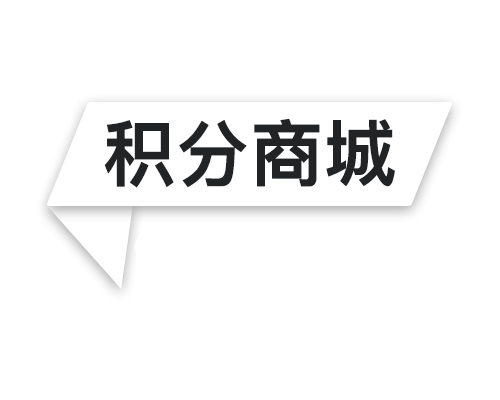
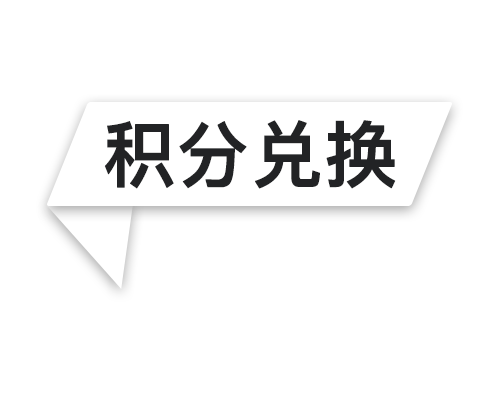
[Add] Credits exchange page init

Changed region(s): [[0.33, 0.3, 0.81, 0.48], [0.21, 0.3, 0.33, 0.45], [0.24, 0.45, 0.27, 0.48]]

diff --git a/src/js/Utilities/RequestAdmin.js b/src/js/Utilities/RequestAdmin.js
@@ -18,7 +18,7 @@ export const getActivityPush = async (content) => {
     return Promise.reject(new Error("请求参数不能为空"))
   }
 
-  const res = await Network.fetchGet(reqUrl, { token: UserStorages.getToken() });
+  const res = await Network.fetchGet(reqUrl, {token: UserStorages.getToken()});
   if (res.status === 200) {
     return res.text();
   } else {
@@ -44,7 +44,7 @@ export const deleteUser = async (id) => {
     return Promise.reject(new Error("请求参数不能为空"))
   }
 
-  const res = await Network.fetchDel(reqUrl, { token: UserStorages.getToken() });
+  const res = await Network.fetchDel(reqUrl, {token: UserStorages.getToken()});
   if (res.status === 200) {
     return res.text();
   } else {
@@ -69,7 +69,7 @@ export const postCouponCreate = async (data) => {
   if (data.name === '' || data.name === undefined) {
     return Promise.reject(new Error("请求参数不能为空"))
   }
-  const res = Network.fetchPost(reqUrl,{ token: UserStorages.getToken() }, data);
+  const res = Network.fetchPost(reqUrl, {token: UserStorages.getToken()}, data);
   if (res.status === 200) {
     return res.json();
   } else {
@@ -100,7 +100,7 @@ export const postCouponCreate = async (data) => {
  *   score: 0
  * }
  * */
-export const postUpdateUserAdmin = async (data= {
+export const postUpdateUserAdmin = async (data = {
   detail: "",
   email: "",
   gender: "",
@@ -118,10 +118,36 @@ export const postUpdateUserAdmin = async (data= {
     return Promise.reject(new Error("请求参数不能为空"))
   }
 
-  const res = await Network.fetchPost(reqUrl, { token: UserStorages.getToken() }, data);
+  const res = await Network.fetchPost(reqUrl, {token: UserStorages.getToken()}, data);
 
   if (res.status === 200) {
     return res.json();
+  } else {
+    res.text()
+      .then(text => {
+        if (text !== undefined) {
+          text = text.toString()
+          return Promise.reject(new Error(text));
+        }
+      })
+  }
+}
+
+/**
+ * @function deleteCoupon
+ * @description 删除优惠券，DELETE请求
+ * @param {string} couponId 优惠券ID
+ * */
+export const deleteCoupon = async (couponId) => {
+  const reqUrl = `${store.getters.getApiServer}/coupon/delete?couponId=${couponId}`
+
+  if (couponId === '' || couponId === undefined) {
+    return Promise.reject(new Error("请求参数不能为空"))
+  }
+
+  const res = await Network.fetchDel(reqUrl, {token: UserStorages.getToken()});
+  if (res.status === 200) {
+    return res.text();
   } else {
     res.text()
       .then(text => {

diff --git a/src/views/credits/Bill.vue b/src/views/credits/Bill.vue
@@ -100,11 +100,19 @@
       <div class="history-bills col-span-1">
         <h1 class="text-center text-2xl my-5">历史消费账单</h1>
         <div>
-          <el-table :data="pageData.myHistoryBills" stripe style="width: 100%" max-height="360" empty-text="无账单数据">
+          <el-table
+              :data="pageData.myHistoryBills"
+              show-summary
+              stripe
+              style="width: 100%"
+              max-height="320"
+              sum-text="合计金额(¥)"
+              empty-text="无账单数据"
+          >
+            <el-table-column prop="description" label="账单描述" fixed="left" width="180"/>
             <el-table-column prop="createDate" label="创建日期" width="180"/>
-            <el-table-column prop="description" label="账单描述" width="180"/>
-            <el-table-column prop="discountAmount" label="折扣"/>
-            <el-table-column prop="totalAmount" label="实付金额"/>
+            <el-table-column prop="discountAmount" sortable label="用券折扣(¥)"/>
+            <el-table-column prop="totalAmount" sortable label="实付金额(¥)"/>
           </el-table>
         </div>
       </div>
@@ -157,7 +165,7 @@ let pageData = reactive({
 })
 
 const useCoupon = () => {
-  pageData.useCoupon = true
+  pageData.useCoupon = pageData.selectedCoupon !== '';
   calcNewCost()
 }
 
@@ -182,8 +190,8 @@ const calcNewCost = () => {
   pageData.estimatedCost = parseFloat(pageData.estimatedCost)
 
   let discountAmount =
-      pageData.userInfo.currentCoupons.find(item => item.couponId === pageData.selectedCoupon)
-          ? pageData.userInfo.currentCoupons.find(item => item.couponId === pageData.selectedCoupon).discountAmount
+      pageData.userInfo.currentCoupons.find(item => item.id === pageData.selectedCoupon)
+          ? pageData.userInfo.currentCoupons.find(item => item.id === pageData.selectedCoupon).discountAmount
           : 0
 
   if (pageData.useCredits) {
@@ -256,7 +264,10 @@ watch(() => pageData.useCredits, () => {
 })
 
 watch(() => pageData.selectedCoupon, (newVal) => {
-  console.log(newVal)
+  if (newVal !== '') {
+    pageData.billForm.couponId = newVal
+  }
+  calcNewCost()
 })
 
 watch(() => store.state.userInfo, (newVal) => {

diff --git a/src/js/Utilities/RequestFiles.js b/src/js/Utilities/RequestFiles.js
@@ -6,29 +6,29 @@ import Network from "@/js/basic/Network"
 import store from "@/js/store"
 import UserStorages from "@/js/Utilities/UserStorages"
 
-/**
- * @function postImage
- * @description 上传图片
- * @param {FormData} img 图片FormData
- * */
-export const postImage = async (img) => {
-  const reqUrl = `${store.getters.getApiServer}/file/image`
-
-  if (img === null || img === undefined) {
-    return Promise.reject('图片不能为空')
-  }
-
-  const res = await Network.fetchPostFile(reqUrl, { token: UserStorages.getToken() }, img);
-
-  if (res.status === 200) {
-    return res.text()
-  } else {
-    res.text()
-      .then(text => {
-        if (text !== undefined) {
-          text = text.toString()
-          return Promise.reject(new Error(text));
-        }
-      })
-  }
-}
+// /**
+//  * @function postImage
+//  * @description 上传图片
+//  * @param {FormData} img 图片FormData
+//  * */
+// export const postImage = async (img) => {
+//   const reqUrl = `${store.getters.getApiServer}/file/image`
+//
+//   if (img === null || img === undefined) {
+//     return Promise.reject('图片不能为空')
+//   }
+//
+//   const res = await Network.fetchPostFile(reqUrl, { token: UserStorages.getToken() }, img);
+//
+//   if (res.status === 200) {
+//     return res.text()
+//   } else {
+//     res.text()
+//       .then(text => {
+//         if (text !== undefined) {
+//           text = text.toString()
+//           return Promise.reject(new Error(text));
+//         }
+//       })
+//   }
+// }

diff --git a/src/views/admin/coupon.vue b/src/views/admin/coupon.vue
@@ -8,7 +8,7 @@
           <el-input
               v-model="pageData.newCoupon.name"
               :minlength="1"
-              :maxlength="8"
+              :maxlength="50"
               show-word-limit
               placeholder="优惠券名称不宜过长"
           ></el-input>
@@ -17,7 +17,7 @@
           <el-input
               v-model="pageData.newCoupon.description"
               :minlength="1"
-              :maxlength="20"
+              :maxlength="100"
               show-word-limit
               placeholder="优惠券描述，如满100减10"
           ></el-input>
@@ -201,7 +201,16 @@ const onCouponSubmit = () => {
 
 const onCouponDelete = () => {
   if (delCouponValidation()) {
-    console.log('delete coupon')
+    AdminApi.deleteCoupon(pageData.deleteCouponId)
+        .then(res => {
+          Notification.Notify(res, {type: 'success', title: '删除优惠券成功'})
+        })
+        .catch(err => {
+          Notification.Notify(err, {type: 'error', title: '删除优惠券失败'})
+        })
+        .finally(() => {
+          pageData.deleteCouponId = null
+        })
   }
 }
 

diff --git a/src/js/Requests.js b/src/js/Requests.js
@@ -21,7 +21,8 @@ import {
   getUserCredit,
   getUserSignIn,
   postUserRecharge,
-  postUpdateUser
+  postUpdateUser,
+  getExchangeCoupon
 } from "@/js/Utilities/RequestsUser"
 
 import {
@@ -34,12 +35,12 @@ import {
   getActivityPush,
   deleteUser,
   postCouponCreate,
-  postUpdateUserAdmin
+  postUpdateUserAdmin, deleteCoupon
 } from "@/js/Utilities/RequestAdmin"
 
-import {
-  postImage
-} from "@/js/Utilities/RequestFiles"
+// import {
+//   postImage
+// } from "@/js/Utilities/RequestFiles"
 
 /**
  * Exports
@@ -63,7 +64,8 @@ export const UserInfoApi = {
   getUserSignIn,
   postUserRecharge,
   getNoticeList,
-  postUpdateUser
+  postUpdateUser,
+  getExchangeCoupon
 }
 
 export const PurchaseApi = {
@@ -76,9 +78,10 @@ export const AdminApi = {
   getActivityPush,
   deleteUser,
   postCouponCreate,
-  postUpdateUserAdmin
+  postUpdateUserAdmin,
+  deleteCoupon
 }
 
-export const FilesApi = {
-  postImage
-}
+// export const FilesApi = {
+//   postImage
+// }

diff --git a/src/views/credits/Exchange.vue b/src/views/credits/Exchange.vue
@@ -1,0 +1,28 @@
+<template>
+  <div class="bg-gray-50">
+    <div class="head-banner__boundary overflow-hidden">
+      <div class="head-banner__container">
+        <img class="mx-auto" :src="bannerImg" alt="积分兑换">
+      </div>
+    </div>
+  </div>
+</template>
+
+<script setup>
+import bannerImg from '@/assets/images/banner_credits.png'
+import {UserInfoApi} from "@/js/Requests"
+import {onMounted, reactive, watch} from "vue"
+import {useStore} from "vuex"
+import Notification from "@/js/Utilities/Notification"
+
+const store = useStore()
+
+</script>
+
+<style scoped>
+.head-banner__container {
+  height: 400px;
+  animation: initiation 1s forwards;
+  background-image: radial-gradient(circle at 50% -20.71%, #a3a7ff 0, #7a8ffc 25%, #3c78f2 50%, #0063e8 75%, #0051de 100%);
+}
+</style>

diff --git a/src/js/Utilities/RequestsUser.js b/src/js/Utilities/RequestsUser.js
@@ -89,6 +89,27 @@ export const postUserRecharge = async (data = 'money=0') => {
 }
 
 /**
+ * @function getExchangeCoupon
+ * @description 积分兑换优惠券
+ * */
+export const getExchangeCoupon = async () => {
+  const reqUrl = `${store.getters.getApiServer}/coupon/listTemplate`
+
+  const res = await Network.fetchGet(reqUrl, { token: UserStorages.getToken() });
+  if (res.status === 200) {
+    return res.json();
+  } else {
+    res.text()
+      .then(text => {
+        if (text !== undefined) {
+          text = text.toString()
+          return Promise.reject(new Error(text));
+        }
+      })
+  }
+}
+
+/**
  * @function getNoticeList
  * @description 获取公告列表
  * @param {Number} pageNum 页码

diff --git a/src/js/router/index.ts b/src/js/router/index.ts
@@ -18,6 +18,7 @@ const MyProfile = () => import('@/views/user/MyProfile.vue')
 // 积分相关
 const Credits = () => import('@/views/credits/Bill.vue')
 const SignIn = () => import('@/views/credits/SignIn.vue')
+const Exchange = () => import('@/views/credits/Exchange.vue')
 
 // 充值相关
 const Recharge = () => import('@/views/recharge/index.vue')
@@ -66,6 +67,15 @@ const routes: Array<RouteRecordRaw> = [
         meta: {
             title: '每日签到',
             roles: ["user"]
+        }
+    },
+    {
+        path: '/exchange',
+        name: 'exchange',
+        component: Exchange,
+        meta: {
+            title: '积分兑换',
+            roles: ["admin", "user"]
         }
     },
     {

diff --git a/src/views/admin/activity.vue b/src/views/admin/activity.vue
@@ -1,10 +1,10 @@
 <template>
-  <div class="events-container px-5">
+  <div class="events-container overflow-y-scroll px-5">
     <h1 class="text-2xl italic mb-5">活动信息推送</h1>
     <el-input
         v-model="pageData.activityDesc"
         type="textarea"
-        :autosize="{minRows: 5, maxRows: 10}"
+        :autosize="{minRows: 10, maxRows: 20}"
         autofocus
         size="large"
         placeholder="请输入推送的活动通知内容"
@@ -52,5 +52,7 @@ const onActivitySubmit = () => {
 </script>
 
 <style scoped>
-
+.events-container {
+  height: 700px;
+}
 </style>

diff --git a/src/js/store/index.js b/src/js/store/index.js
@@ -15,6 +15,7 @@ export default createStore({
         { name: '首页', path: '/', routerName: 'home', needLogin: false },
         { name: '消费', path: '/credits', routerName: 'credits', needLogin: true },
         { name: '余额充值', path: '/recharge', routerName: 'recharge', needLogin: true },
+        { name: '积分兑换', path: '/exchange', routerName: 'exchange', needLogin: true },
         { name: '每日签到', path: '/signin', routerName: 'signin', needLogin: true },
       ]
     },

diff --git a/src/views/admin/index.vue b/src/views/admin/index.vue
@@ -1,6 +1,6 @@
 <template>
   <div class="container mx-auto py-10">
-    <el-tabs tab-position="left" style="height: 700px" class="demo-tabs">
+    <el-tabs tab-position="left" style="height: 700px">
       <el-tab-pane label="优惠券">
         <Coupon></Coupon>
       </el-tab-pane>
